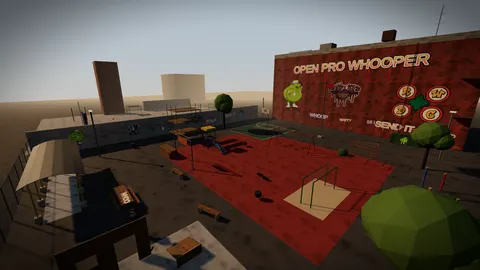
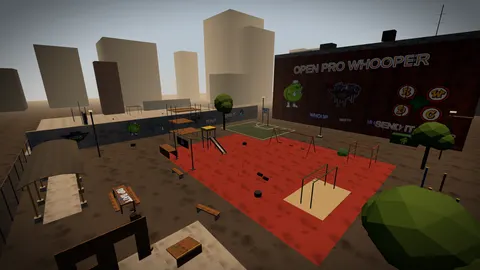
Moose after the owner's FPV video: taller bare trunks, slimmer crowns, cedars at the playground's edge, brighter maples, a dead snag, bucket swings, chunkier curb, bright overcast; Rogue Monkey FPV, FPV Your World and RidgeRipper FPV wall art on Clappy, the school and the playground
Claude-Session: https://claude.ai/code/session_013cEUyKFWfXQwnZSdKsgxWE

diff --git a/src/maps.js b/src/maps.js
@@ -169,7 +169,8 @@
       spans.forEach(([a0, a1], i) => { const h = [4.2, 7.5, 5.4, 9.2, 6.3, 4.8][(i + n) % 6], c = (a0 + a1) / 2, hl = (a1 - a0) / 2, d0 = 24, d1 = 40, dm = (d0 + d1) / 2;
         const ax = along === 'x', ctr = ax ? v3(c, h / 2, out * dm) : v3(out * dm, h / 2, c), half = ax ? v3(hl, h / 2, 8) : v3(8, h / 2, hl);
         const o = O(`${name} ${i + 1}`, 'building', { wallNormal: ax ? v3(0, 0, -out) : v3(-out, 0, 0), tall: h, perchHeight: h });
-        const art = name === 'North Shops' && i === 1 ? { graffiti: 'south', art: [{ name: 'clappy', x: 0.3, y: 3.6, h: 5.6, rot: -0.03 }, { name: 'heyhey', x: 0.74, y: 3.8, h: 4.2, rot: 0.03 }] } : {};
+        const art = name === 'North Shops' && i === 1 ? { graffiti: 'south', art: [{ name: 'clappy', x: 0.3, y: 3.6, h: 5.6, rot: -0.03 }, { name: 'heyhey', x: 0.74, y: 3.8, h: 4.2, rot: 0.03 }] }
+          : name === 'North Shops' && i === 2 ? { graffiti: 'south', art: [{ name: 'roguemonkey', x: 0.18, y: 4.15, h: 1.9, rot: -0.03 }, { name: 'fpvyourworld', x: 0.5, y: 3.95, h: 2.7, rot: 0.02 }, { name: 'ridgeripper', x: 0.82, y: 4.2, h: 1.35, rot: -0.04 }] } : {};   // friends of the project (owner, 2026-11-19)
         box(o, ctr, half, ['brick', 'concrete', 'vConcrete', 'brick'][(i + n) % 4], 0, 0, 0, art);
         blocks.push({ ax, out, a0, a1, h });
         // street face: a shutter or storefront, an awning over it, balconies on the taller ones
@@ -413,7 +414,8 @@
     const HZ0 = -32, HZ1 = -16, HX = 18, HH = 10.4, hall = O('Main Hall', 'building', { wallNormal: v3(0, 0, 1), tall: HH });
     windowWall(hall, 'x', HZ0 - 0.2, -(HX + 0.4), HX + 0.4, 0, HH, 0.2, 'vLav', Array.from({ length: 8 }, (_, i) => ({ c: -15.75 + i * 4.5, hw: 1.3 })), [[5.4, 7.8]], 'Hall Window', 'neonPink');   // north wall, with a row of open windows
     // the south face: an open colonnade below, a band of wall above it carrying the pilot's pieces
-    box(hall, v3(0, 4.4 + (HH - 4.4) / 2, HZ1 + 0.2), v3(HX + 0.4, (HH - 4.4) / 2, 0.2), 'vConcrete', 0, 0, 0, { graffiti: 'south', art: [{ name: 'clappy', x: 0.1, y: 3.0, h: 5.0, rot: -0.04 }, { name: 'mopenguinz', x: 0.3, y: 3.0, h: 4.6, rot: 0.03 }, { name: 'heyhey', x: 0.5, y: 3.1, h: 4.2, rot: 0.02 }, { name: 'byteme', x: 0.7, y: 3.0, h: 4.8, rot: -0.03 }, { name: 'rwdc', x: 0.9, y: 2.9, h: 4.6, rot: 0.05 }] });
+    box(hall, v3(0, 4.4 + (HH - 4.4) / 2, HZ1 + 0.2), v3(HX + 0.4, (HH - 4.4) / 2, 0.2), 'vConcrete', 0, 0, 0, { graffiti: 'south', art: [{ name: 'clappy', x: 0.07, y: 3.0, h: 4.4, rot: -0.04 }, { name: 'roguemonkey', x: 0.19, y: 3.2, h: 2.3, rot: 0.02 }, { name: 'mopenguinz', x: 0.31, y: 3.0, h: 4.0, rot: 0.03 }, { name: 'fpvyourworld', x: 0.43, y: 3.0, h: 3.8, rot: -0.02 },
+      { name: 'heyhey', x: 0.56, y: 3.1, h: 3.8, rot: 0.02 }, { name: 'ridgeripper', x: 0.69, y: 3.3, h: 1.6, rot: -0.03 }, { name: 'byteme', x: 0.81, y: 3.0, h: 4.2, rot: -0.03 }, { name: 'rwdc', x: 0.93, y: 2.9, h: 4.0, rot: 0.05 }] });
     neon(hall, v3(0, 4.4, HZ1 + 0.42), v3(HX, 0.03, 0.03), 'neonPink');
     for (const s of [-1, 1]) {                                                                               // end walls with a tall doorway each
       const ew = O('Hall End Wall', 'wall', { wallNormal: v3(-s, 0, 0) }), x = s * (HX + 0.2), zc = (HZ0 + HZ1) / 2;
@@ -560,16 +562,17 @@
 
   // The park's makers (trees, picnic tables, houses, pickups): used by buildMoose and by the map editor's asset library.
   // trees / houses collect what was made (buildMoose spaces its groves with them).
-  function natureKit(K, rr, rnd, trees = [], houses = []) {
+  function natureKit(K, rr, rnd, trees = [], houses = [], style = {}) {
     const { O, box, pipe, ball, coneSolid } = K;
-    const conifer = (x, z, h, r, kind) => { const o = O(kind === 'cedar' ? 'Cedar' : 'Hemlock', r <= 0.25 ? 'pole' : 'tree'), base = h * (kind === 'cedar' ? rr(0.16, 0.26) : rr(0.22, 0.32)), R = Math.min(3.2, h * 0.13 + r * 1.2);
+    const conifer = (x, z, h, r, kind) => { const o = O(kind === 'cedar' ? 'Cedar' : 'Hemlock', r <= 0.25 ? 'pole' : 'tree'), base0 = h * (kind === 'cedar' ? rr(0.16, 0.26) : rr(0.22, 0.32)), R0 = Math.min(3.2, h * 0.13 + r * 1.2),
+        base = style.tall ? Math.min(h * 0.5, base0 * 1.55) : base0, R = style.tall ? R0 * 0.8 : R0;   // style.tall (Moose, after the owner's FPV video, 2026-11-19): bare trunks higher up, slimmer crowns, more sky between them
       pipe(o, v3(x, 0, z), v3(x, h * 0.55, z), r, 'cedarBark'); pipe(o, v3(x, h * 0.55, z), v3(x, h * 0.92, z), r * 0.6, 'cedarBark', { noCollide: true });
       pipe(o, v3(x, 0, z), v3(x, 0.5 + r, z), r * 1.7, 'cedarBark', { cone: true, noCollide: true });   // the flare at the foot
       const leaf = kind === 'cedar' ? 'cedarLeaf' : 'hemlockLeaf', n = 3;
       for (let i = 0; i < n; i++) { const y0 = base + (h - base) * i / n * 0.85, y1 = Math.min(h, y0 + (h - base) * 0.55), Ri = R * (1 - i * 0.26); pipe(o, v3(x, y0, z), v3(x, y1, z), Ri, leaf, { cone: true, noCollide: true }); coneSolid(o, v3(x, y0, z), v3(x, y1, z), Ri); }
       { const c = S.makeCapsule(v3(x, h * 0.55, z), v3(x, h * 0.92, z), r * 0.6); c.leaf = true; o.prims.push(c); }   // the upper trunk inside the crown
       o.round = { c: v3(x, 0, z), r: R, under: base, over: h }; o.obstacle = { a: v3(x - R, 0, z), b: v3(x + R, 0, z), under: base, over: h };
-      trees.push({ x, z, r: Math.max(R * 0.5, 1.2) }); return o; };
+      trees.push({ x, z, r: Math.max(R0 * 0.5, 1.2) }); return o; };   /* R0: the spacing of the grove is as it was (same trees, same places) */
     // Birch: the trunk ends inside the top clump of leaves and a thin branch reaches every other clump (pilot: the trunk
     // stuck out of the crown). split: two trunks from one foot in a V (the pilot's photo), each with its own crown, and the
     // opening between them is a gap. undefined = the map decides from the spot (a hash, so the map's random numbers, and
@@ -648,7 +651,7 @@
     const inLane = (x, z, pad = 0) => lanes.some(L => { const dx = x - L.c.x, dz = z - L.c.z, c = Math.cos(L.ry), s = Math.sin(L.ry), u = dx * c - dz * s, w = dx * s + dz * c; return Math.abs(u) < L.len + pad && Math.abs(w) < L.w + pad; });
     // ---- trees. Conifers: a flared trunk bare for the first few metres, then stacked drooping cones. Over/under under the
     // lowest boughs; slim trunks are poles to orbit. Flying into the middle of a crown hits it; brushing its edge does not.
-    const trees = [], houses = [], { conifer, birch, shade, picnic, house, truck } = natureKit(K, rr, rnd, trees, houses);
+    const trees = [], houses = [], { conifer, birch, shade, picnic, house, truck } = natureKit(K, rr, rnd, trees, houses, { tall: true });
     const clear = (x, z, d) => trees.every(t => Math.hypot(t.x - x, t.z - z) > d + t.r);
     const keepOut = [[-35, 1, 10.5], [-24, 8, 3.5], [36, -12, 4.5], [-41, -19, 4]];   // playground, the spawn, the tire tunnel, the sign
     const free = (x, z) => keepOut.every(([a, b, r]) => Math.hypot(x - a, z - b) > r);
@@ -666,11 +669,12 @@
     { for (const [x, z, a, l] of [[-8, 18, 0.4, 3.2], [12, -21, 1.2, 2.6], [32, 14, 2.4, 4]]) pipe(O('Mossy Log', 'deco'), v3(x, 0.22, z), v3(x + Math.cos(a) * l, 0.2, z + Math.sin(a) * l), 0.22, 'mossLog'); }
     { for (const [x, z, r] of [[-20, 4.5, 0.4], [9, -5, 0.35], [-2, 12.5, 0.45], [24, 2.5, 0.3]]) pipe(O('Stump', 'deco'), v3(x, 0, z), v3(x, 0.35, z), r, 'cedarBark'); }
     // ---- the playground (west end): a timber border round wood chips
-    { const b = O('Playground Border', 'deco'); for (const [c, h] of [[v3(-35, 0.08, -4.5), v3(8, 0.08, 0.1)], [v3(-35, 0.08, 6.5), v3(8, 0.08, 0.1)], [v3(-43, 0.08, 1), v3(0.1, 0.08, 5.5)], [v3(-27, 0.08, 1), v3(0.1, 0.08, 5.5)]]) box(b, c, h, 'oldWood'); }
+    { const b = O('Playground Border', 'deco'); for (const [c, h] of [[v3(-35, 0.11, -4.5), v3(8.14, 0.11, 0.14)], [v3(-35, 0.11, 6.5), v3(8.14, 0.11, 0.14)], [v3(-43, 0.11, 1), v3(0.14, 0.11, 5.5)], [v3(-27, 0.11, 1), v3(0.14, 0.11, 5.5)]]) box(b, c, h, 'oldWood'); }   // a chunky timber curb, as in the video
     // the A-frame swing set: faded blue legs, a 2.4 m top bar along x, two belt swings on chains
     together(() => { const x0 = -40, x1 = -35.6, z = -1.2, H = 2.4, sw = bar('Swing Set', v3(x0, H, z), v3(x1, H, z), 0.045, 'fadedBlue');
       for (const x of [x0, x1]) for (const s of [-1, 1]) pipe(sw, v3(x, H, z), v3(x + (x === x0 ? -0.35 : 0.35), 0, z + s * 1.25), 0.04, 'fadedBlue');
-      for (const x of [x0 + 1.2, x1 - 1.2]) { for (const s of [-0.22, 0.22]) pipe(sw, v3(x + s, H, z), v3(x + s, 0.5, z), 0.008, 'chain', { noCollide: true }); box(sw, v3(x, 0.47, z), v3(0.26, 0.03, 0.1), 'rubberBlack', 0, 0, 0, { noCollide: true }); }
+      for (const x of [x0 + 1.2, x1 - 1.2]) { for (const s of [-0.22, 0.22]) pipe(sw, v3(x + s, H, z), v3(x + s, 0.5, z), 0.008, 'chain', { noCollide: true }); box(sw, v3(x, 0.47, z), v3(0.17, 0.025, 0.14), 'rubberBlack', 0, 0, 0, { noCollide: true });   /* black bucket seats, as at the real park */
+        for (const s of [-1, 1]) { box(sw, v3(x, 0.56, z + s * 0.14), v3(0.17, 0.09, 0.02), 'rubberBlack', 0, 0, 0, { noCollide: true }); box(sw, v3(x + s * 0.17, 0.56, z), v3(0.02, 0.09, 0.14), 'rubberBlack', 0, 0, 0, { noCollide: true }); } }
       O('Swing Set opening', 'gap', { gap: { c: v3((x0 + x1) / 2, H / 2, z), n: v3(0, 0, 1), hu: (x1 - x0) / 2 - 0.1, hv: H / 2 - 0.05, u: v3(1, 0, 0) } }); });
     // the small multi-play unit: tan posts, a deck 1.2 m up under a faded red roof, steps on the west, a faded blue slide
     // east, and a short run of climbing bars on the north side
@@ -719,6 +723,16 @@
     // each span between the poles (and the runs out to the map's edges) is an over/under (owner, 2026-11-19: "power lines count")
     { const xs = [-62]; for (let x = -40; x <= 44; x += 28) xs.push(x); xs.push(62); for (let i = 1; i < xs.length; i++) O('Power Lines', 'overunder', { obstacle: { a: v3(xs[i - 1], 0, -26.8), b: v3(xs[i], 0, -26.8), under: 8.4, over: 8.62 } }); }
     truck(-50.5, -14, Math.PI / 2, 'truckRed'); truck(-6, -31.8, 0, 'truckGrey'); truck(28, -28.2, Math.PI, 'truckBlue'); truck(-58, 22, Math.PI / 2, 'truckGrey');
+    // ---- after the owner's FPV video of the real park (2026-11-19): big conifers crowd the playground's edge and hang over the
+    // swings (that is where the trippies are flown), bright broadleaf trees stand among the cedars, and a tall dead snag is a
+    // bare pole. Added last with their own random stream, so every tree above keeps its place (and old flights their world).
+    { let sd = 9119; const r2 = () => { sd = (sd * 1664525 + 1013904223) >>> 0; return sd / 4294967296; }, g2 = (a, b) => a + (b - a) * r2(), N2 = natureKit(K, g2, r2, trees, houses, { tall: true });
+      for (const [x, z, h, r, kind] of [[-45.0, -1.6, 30, 0.42, 'cedar'], [-44.9, 4.3, 26, 0.32, 'hemlock'], [-41.4, -6.7, 28, 0.46, 'cedar'], [-33.6, -6.5, 24, 0.3, 'hemlock'],
+        [-28.7, -6.4, 31, 0.5, 'cedar'], [-25.3, 5.3, 27, 0.38, 'cedar'], [-35.0, 8.7, 25, 0.4, 'cedar']]) if (clear(x, z, 0.6)) N2.conifer(x, z, h, r, kind);
+      { const x = -21.5, z = -10.5; if (clear(x, z, 0.5)) { const o = O('Dead Snag', 'pole'); pipe(o, v3(x, 0, z), v3(x, 22, z), 0.22, 'snagWood'); pipe(o, v3(x, 0, z), v3(x, 0.7, z), 0.4, 'snagWood', { cone: true, noCollide: true });
+        for (const [y, a, L] of [[9, 0.4, 1.4], [12.5, 2.6, 1.0], [15, 4.4, 1.6], [18, 1.5, 0.9]]) pipe(o, v3(x, y, z), v3(x + Math.cos(a) * L, y + L * 0.35, z + Math.sin(a) * L), 0.05, 'snagWood', { noSurvey: true });
+        trees.push({ x, z, r: 1 }); } }
+      for (const [x, z, h] of [[-47.5, 9.5, 11], [-22.5, -8.5, 12], [-46.5, -8.0, 10], [-19.5, 3.5, 11], [-10, 12.5, 12], [6, -21, 11], [20, 10.5, 12], [-2, 16, 10]]) if (clear(x, z, 1.0)) N2.shade(x, z, h); }
     return K.done({ id: 'moose', title: 'Moose Knuckle Park', theme: 'pnw', zones, spawn: { pos: v3(-24, 0.03, 8), yaw: -1.4 }, bounds: { x: [-75, 75], z: [-55, 50] } });
   }
 

diff --git a/src/worldview.js b/src/worldview.js
@@ -335,7 +335,7 @@ function mats() {
     MAT.fenceWood = std(TX.oldWood, { roughness: 0.9, color: 0xb59a7a }); MAT.polewood = std(TX.cedarBark, { color: 0x9a8a78 }); MAT.carvedCedar = std(TX.wood, { color: 0xc89a70, roughness: 0.9 }); MAT.mossLog = std(TX.cedarBark, { color: 0x8a9a62 });
     MAT.tireTread = std(TX.tireTread, { roughness: 0.95 }); MAT.mooseSign = std(TX.mooseSign, { roughness: 0.8 });
     const leaf = (col) => new THREE.MeshStandardMaterial({ color: col, roughness: 0.95, flatShading: true, emissive: col, emissiveIntensity: 0.28 });   // a little light through the needles: the undersides were black (owner, 2026-11-19)
-    MAT.cedarLeaf = leaf(0x2c4630); MAT.hemlockLeaf = leaf(0x34503a); MAT.mapleLeaf = leaf(0x56702e); MAT.birchLeaf = leaf(0x7a8a3c); MAT.shrub = leaf(0x3b5430); MAT.bracken = leaf(0x8a5a30);
+    MAT.cedarLeaf = leaf(0x2c4630); MAT.hemlockLeaf = leaf(0x34503a); MAT.mapleLeaf = leaf(0x6c9434); MAT.snagWood = new THREE.MeshStandardMaterial({ color: 0x8c8780, roughness: 0.95 }); MAT.birchLeaf = leaf(0x7a8a3c); MAT.shrub = leaf(0x3b5430); MAT.bracken = leaf(0x8a5a30);
     MAT.fadedBlue = P('#4f7090'); MAT.fadedRed = P('#8a4c3e'); MAT.playTan = P('#bca67a'); MAT.darkMetal = P('#3a3c3a', { metalness: 0.4 }); MAT.binGreen = P('#3d5a44', { metalness: 0.3 });
     MAT.signWhite = new THREE.MeshStandardMaterial({ color: 0xe6e4dc, roughness: 0.6 });
     MAT.houseSage = P('#8a9476'); MAT.houseTan = P('#b3a486'); MAT.houseBlue = P('#7c8c9a'); MAT.houseCream = P('#d2c8ae'); MAT.houseRed = P('#8e5a4a'); MAT.roofDark = P('#3c3d40', { roughness: 0.9 });
@@ -549,14 +549,14 @@ function buildScene() {
   if (VAPOR) vaporBackdrop(); else if (VICE_) viceBackdrop(); else if (DUSK_) duskBackdrop(); else {
   // sky
   const [sc, sg] = cnv(16, 512); const gr = sg.createLinearGradient(0, 0, 0, 512);
-  if (PNW) { gr.addColorStop(0, '#6f93b8'); gr.addColorStop(0.42, '#a9bfcf'); gr.addColorStop(0.6, '#cfd8da'); gr.addColorStop(0.72, '#a9b4ab'); gr.addColorStop(1, '#55604f'); }
+  if (PNW) { gr.addColorStop(0, '#9fb0bf'); gr.addColorStop(0.42, '#d2dbe1'); gr.addColorStop(0.6, '#e8ecec'); gr.addColorStop(0.72, '#b8c0b8'); gr.addColorStop(1, '#5a6452'); }   // a bright, flat overcast (the owner's video, 2026-11-19)
   else { gr.addColorStop(0, '#5f86b3'); gr.addColorStop(0.45, '#a9b9c7'); gr.addColorStop(0.62, '#e7c49a'); gr.addColorStop(0.75, '#d99a6c'); gr.addColorStop(1, '#6e5a4a'); }
   sg.fillStyle = gr; sg.fillRect(0, 0, 16, 512); const skyT = new THREE.CanvasTexture(sc); skyT.colorSpace = THREE.SRGBColorSpace;
   const sky = new THREE.Mesh(new THREE.SphereGeometry(300, 24, 16), new THREE.MeshBasicMaterial({ map: skyT, side: THREE.BackSide, fog: false, depthWrite: false }));
   playRoot.add(sky);
   // lights
-  playRoot.add(new THREE.HemisphereLight(IND ? 0xdfe6f0 : PNW ? 0xc6d6e2 : 0xa9c0e0, IND ? 0x6a645a : PNW ? 0x6c7650 : 0x5a4532, IND ? 1.9 : PNW ? 1.95 : 0.9));   // Moose: brighter sky fill and ground bounce, so the shade under the cedars stays readable for trippies (owner, 2026-11-19)
-  const sun = new THREE.DirectionalLight(PNW ? 0xfff0d8 : 0xffcf98, PNW ? 2.15 : 2.6); if (PNW) sun.position.set(-18, 40, 14); else sun.position.set(-30, 22, 18); sun.castShadow = true;
+  playRoot.add(new THREE.HemisphereLight(IND ? 0xdfe6f0 : PNW ? 0xc6d6e2 : 0xa9c0e0, IND ? 0x6a645a : PNW ? 0x6e7454 : 0x5a4532, IND ? 1.9 : PNW ? 2.7 : 0.9));   // Moose: brighter sky fill and ground bounce, so the shade under the cedars stays readable for trippies (owner, 2026-11-19)
+  const sun = new THREE.DirectionalLight(PNW ? 0xf4f2ec : 0xffcf98, PNW ? 1.25 : 2.6);   // Moose: overcast: most light from the sky, faint shadows if (PNW) sun.position.set(-18, 40, 14); else sun.position.set(-30, 22, 18); sun.castShadow = true;
   sun.shadow.mapSize.set(2048, 2048); const sh = sun.shadow.camera; { const B = world.bounds || { x: [-32, 32], z: [-32, 32] }, R = Math.max(32, ...B.x.map(Math.abs), ...B.z.map(Math.abs)) + 4; if (world.id === 'playground') { sh.left = -56; sh.right = 32; } else { sh.left = -R; sh.right = R; sh.top = R; sh.bottom = -R; if (R > 48) sun.shadow.mapSize.set(4096, 4096); } if (world.id === 'playground') { sh.top = 32; sh.bottom = -32; } sh.far = Math.max(120, R * 2.6); } sh.near = 1; sun.shadow.bias = -0.0004; sun.shadow.normalBias = 0.02;
   playRoot.add(sun); playRoot.add(sun.target);
   // ground
@@ -578,7 +578,7 @@ function buildScene() {
   if (VAPOR || VICE_ || DUSK_) return;
   // lamp lights
   if (IND) scene.fog = new THREE.Fog(0x24252b, 30, 140);
-  if (PNW) { scene.fog = new THREE.Fog(0xb4c0bc, 45, 190); pnwBackdrop(); }
+  if (PNW) { scene.fog = new THREE.Fog(0xc8d0cc, 50, 200); pnwBackdrop(); }
   // lamp lights are made with the objects (buildObjects)
   if (world.id !== 'playground') return;   // the skyline and power lines are the playground's own surroundings
   // skyline beyond the fence (no collision)
@@ -604,11 +604,13 @@ function addGraffiti(v) {
   if (hh > 10) opts = { heaven: true, stencil: 'NO WHOOPS', ppm: 64 };
   if (w < 3) opts.big = (opts.big || 1) * 0.5;
   // the pilot's pieces: a big wall of all three on the building, one per graffiti-wall section, small ones on props
-  const turn = () => ['heyhey', 'mopenguinz', 'clappy', 'byteme', 'rwdc'][artTurn++ % 5];   // the pilot's pieces, and friends of the project (MoPenguinz FPV, ByTe_Me)
+  const turn = () => ['heyhey', 'mopenguinz', 'roguemonkey', 'clappy', 'fpvyourworld', 'byteme', 'ridgeripper', 'rwdc'][artTurn++ % 8];   // the pilot's pieces, and friends of the project (MoPenguinz FPV, ByTe_Me, Rogue Monkey FPV, FPV Your World, RidgeRipper FPV)
+  const AH = { roguemonkey: 0.7, ridgeripper: 0.55 };   // the wide logos painted a little smaller, so they fit the wall like the rest
+  const piece = (x, y, h, rot) => { const name = turn(); return { name, x, y, h: h * (AH[name] || 1), rot }; };
   if (v.art) opts.art = v.art;   // a map can say exactly which pieces go where
   else if (hh > 10) opts.art = [{ name: 'clappy', x: 0.17, y: 6.2, h: 6.4, rot: -0.04 }, { name: 'heyhey', x: 0.5, y: 6.6, h: 4.6, rot: 0.02 }, { name: 'rwdc', x: 0.83, y: 6.0, h: 5.2, rot: 0.05 }];
-  else if (v.graffiti === 'east' && w > 12) opts.art = [{ name: turn(), x: 0.2 + rnd() * 0.12, y: 1.75, h: 2.2, rot: (rnd() - 0.5) * 0.12 }, { name: turn(), x: 0.66 + rnd() * 0.12, y: 1.75, h: 2.2, rot: (rnd() - 0.5) * 0.12 }];   // long sections carry two
-  else if (v.graffiti === 'east' && w > 4) opts.art = [{ name: turn(), x: 0.25 + rnd() * 0.5, y: 1.75, h: 2.2, rot: (rnd() - 0.5) * 0.12 }];
+  else if (v.graffiti === 'east' && w > 12) opts.art = [piece(0.2 + rnd() * 0.12, 1.75, 2.2, (rnd() - 0.5) * 0.12), piece(0.66 + rnd() * 0.12, 1.75, 2.2, (rnd() - 0.5) * 0.12)];   // long sections carry two
+  else if (v.graffiti === 'east' && w > 4) opts.art = [piece(0.25 + rnd() * 0.5, 1.75, 2.2, (rnd() - 0.5) * 0.12)];
   else if (v.graffiti === 'south' && w > 2.5 && hh < 2) opts.art = [{ name: 'clappy', x: 0.5, y: hh * 0.5, h: hh * 0.86, rot: 0.06 }];
   else if (v.graffiti === 'south' && w < 2.5 && hh < 1.5) opts.art = [{ name: 'rwdc', x: 0.5, y: hh * 0.52, h: hh * 0.85 }];
   const t = graffitiTexture(w, hh, hh > 10 ? 1.4 : 1, opts);

diff --git a/src/index.template.html b/src/index.template.html
@@ -408,7 +408,7 @@ setTimeout(() => window.__pwBootFail(''), 12000);
 <div id="mainMenu" class="screen hide"><p id="menuNiche">Open Pro Whooper doesn't want to take away from many of the great sims out there like Velocidrone, Liftoff, Uncrashed, WebFPV, but we felt like there was still a niche for Open Pro Whooper!</p><div class="panel" style="max-width:560px">
   <h1 class="logo">Open Pro<br>Whooper</h1><div class="logoSub">PROJECT</div>
   <p class="sub">tiny whoop freestyle · <span id="menuMap">the playground</span> · v0.1 · best <b id="best">0</b></p>
-  <div id="menuThanks" title="Credits: hover to pause"><div class="tkTrack"><span class="tkItem">Thanks and credit to <b>Tyrantt</b> · <b>Pro Whooper</b> · <b>IGOW</b> · <b>RaceGOW</b> · <b>Skittles</b> · <b>Infinity Loops</b> · and <b>the Whoop Community!</b> ✦ Music: <b>8BiT_</b> · Air65 frame: <b>BetaFPV</b> · Beast Brain canopy: <b>_tcmore</b> · The Murderdome: <b>Dirtbag FPV</b> (their logo on the start flag) and <b>Spider Sugar FPV</b> · the Playground's sign: <b>Metal Craft FPV</b> ✦ </span></div></div>
+  <div id="menuThanks" title="Credits: hover to pause"><div class="tkTrack"><span class="tkItem">Thanks and credit to <b>Tyrantt</b> · <b>Pro Whooper</b> · <b>IGOW</b> · <b>RaceGOW</b> · <b>Skittles</b> · <b>Infinity Loops</b> · and <b>the Whoop Community!</b> ✦ Music: <b>8BiT_</b> · Air65 frame: <b>BetaFPV</b> · Beast Brain canopy: <b>_tcmore</b> · The Murderdome: <b>Dirtbag FPV</b> (their logo on the start flag) and <b>Spider Sugar FPV</b> · the Playground's sign: <b>Metal Craft FPV</b> · wall art: <b>MoPenguinz FPV</b>, <b>ByTe_Me</b>, <b>Rogue Monkey FPV</b>, <b>FPV Your World</b>, <b>RidgeRipper FPV</b> ✦ </span></div></div>
   <div id="menuNews" class="hide"><b>NEWS</b><span id="menuNewsText"></span></div>
   <p id="menuPilot" class="sub" style="margin-top:-6px"></p>
   <p id="quickGoal" class="note" style="margin:-4px 0 8px"></p>

diff --git a/CLAUDE.md b/CLAUDE.md
@@ -275,6 +275,18 @@ sag, added in `addPlaygroundExtras`). The wires themselves still have no collide
 and Mattys on them. Moose's benches stand round the playground 1.8 m outside its border, facing in; the bear bins too. The Play Unit's roof is peaked (its panels tilted the wrong way: a V). Moose's shade is lighter: hemisphere 1.95 with a
 brighter ground bounce, sun 2.15, and the leaf materials glow a little (`emissiveIntensity` 0.28) so the cone undersides are not black.
 
+**Moose after the owner's FPV video of the real park** (2026-11-19; the video itself is not in the repo): conifers have bare trunks
+higher up and slimmer crowns (`natureKit(..., { tall: true })`: first bough ×1.55, crown radius ×0.8; the grove's spacing still
+uses the old radius, so every tree keeps its place), seven big cedars and hemlocks crowd the playground's edge, eight brighter
+maples stand among the cedars (`mapleLeaf` 0x6c9434), a Dead Snag (a bare 22 m pole, `snagWood`) at (-21.5, -10.5) — all added
+last with their own seed (`sd = 9119`) so the rest of the map is unchanged; black bucket swing seats; a chunkier curb; a bright
+flat overcast (sky whiter, hemisphere 2.7, sun 1.25: faint shadows; fog 0xc8d0cc). Next with real data: a Blackbox log from the
+same pack, labels for the clip's tricks (big flips ~0 / 9 / 37 / 77 s, rolls ~29-31 / 63-65 s, yaw-heavy turns ~26-30 s).
+**Wall art** (2026-11-19): the Rogue Monkey FPV, FPV Your World and RidgeRipper FPV logos (`assets/graffiti/roguemonkey`,
+`fpvyourworld`, `ridgeripper`; their makers' marks, at the owner's request, for this game only; credited on the main menu and in
+the README) are in the rotation for graffiti walls (`turn()` in worldview.js; wide logos painted smaller: `AH`), on Clappy's
+North Shops 3 and on the school's Main Hall.
+
 **Map edges** (`closeIn` in maps.js, run on every `S.MAPS` build after the Surveyor): invisible walls `EDGE_OUT` 25 m
 beyond every collider and the declared bounds, and a ceiling `EDGE_UP` 40 m above the tallest thing (at least 60 m):
 generous, they only stop endless flying (a tester's powerloop out through the warehouse skylight hit the first, tighter

diff --git a/README.md b/README.md
@@ -81,7 +81,7 @@ Trick names, descriptions and point values: Tyrantt's Pro Whooper (prowhooper.co
 - **Whoop model:** the Air65 frame is BetaFPV's design and the "Beast Brain" canopy is by _tcmore; the game draws them from their model files (`assets/meshes/`). They belong to their makers and are used in this game only.
 - **The Murderdome:** made in the spirit of the Dirtbag FPV club and Spider Sugar FPV. The start flag is the Dirtbag FPV logo (`assets/flags/dirtbag.webp`), added at the pilot's request, for this game only; it belongs to the club.
 - **The Playground's sign gantry** carries the Metal Craft FPV logo (`assets/flags/metalcraft.webp`), added at the owner's request, for this game only; it belongs to Metal Craft FPV.
-- **Graffiti:** the MoPenguinz FPV and ByTe_Me logos appear on the walls alongside the pilot's own pieces. They belong to their makers and are used in this game only.
+- **Graffiti:** the MoPenguinz FPV, ByTe_Me, Rogue Monkey FPV, FPV Your World and RidgeRipper FPV logos appear on the walls alongside the pilot's own pieces. They belong to their makers and are used in this game only.
 
 ## Art
 Graffiti pieces in `assets/graffiti/` — HeyHey KoolAid, Clappy and RWDC — are original drawings by the pilot (heyheykoolaid)
